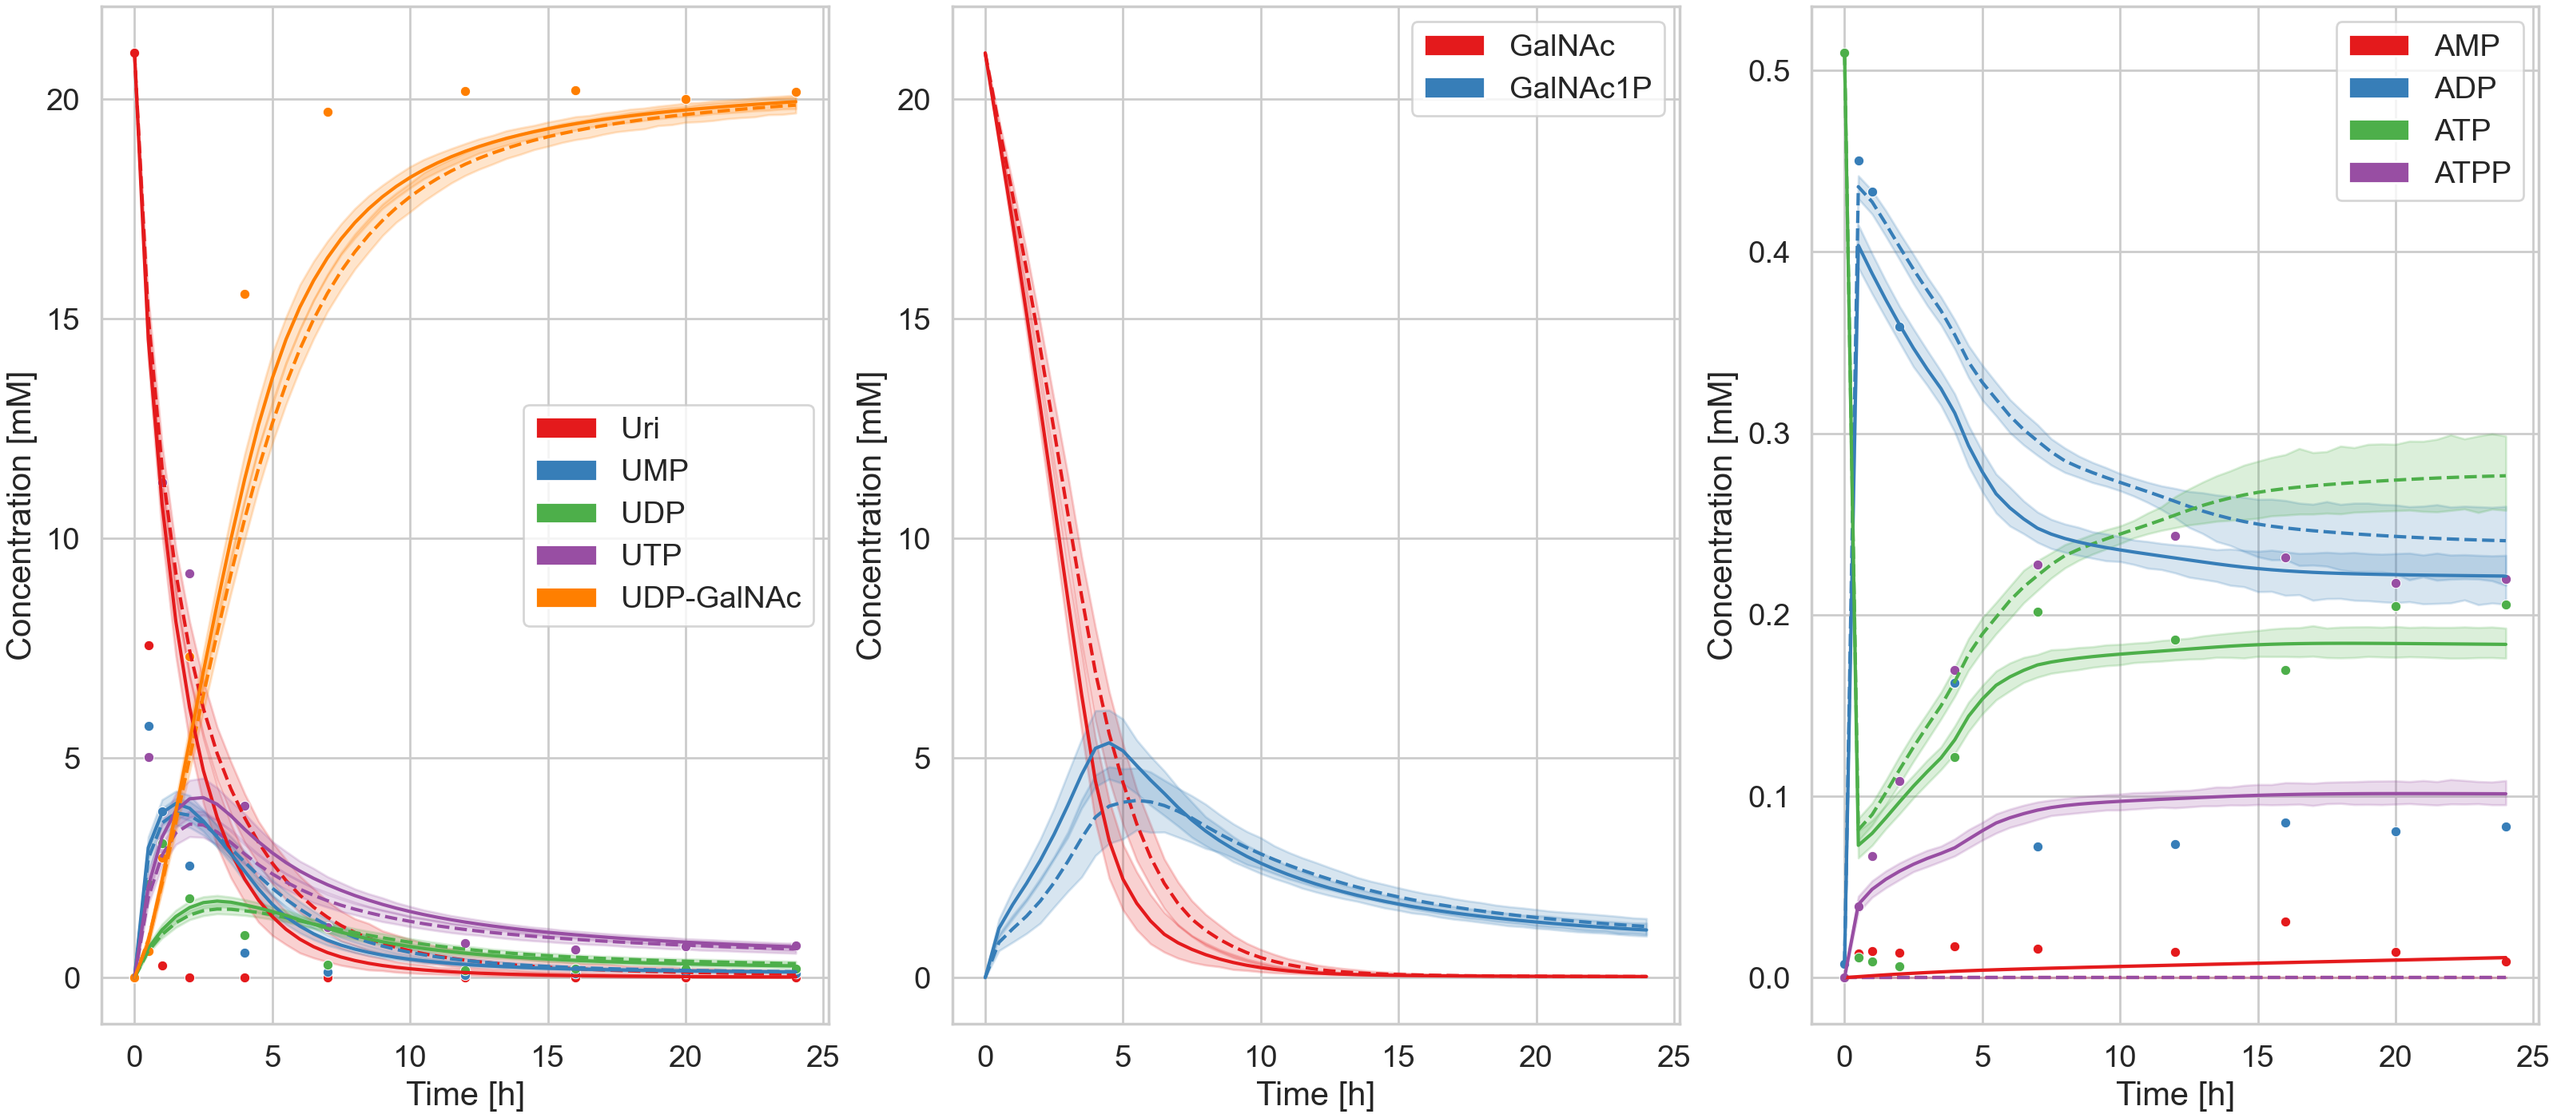
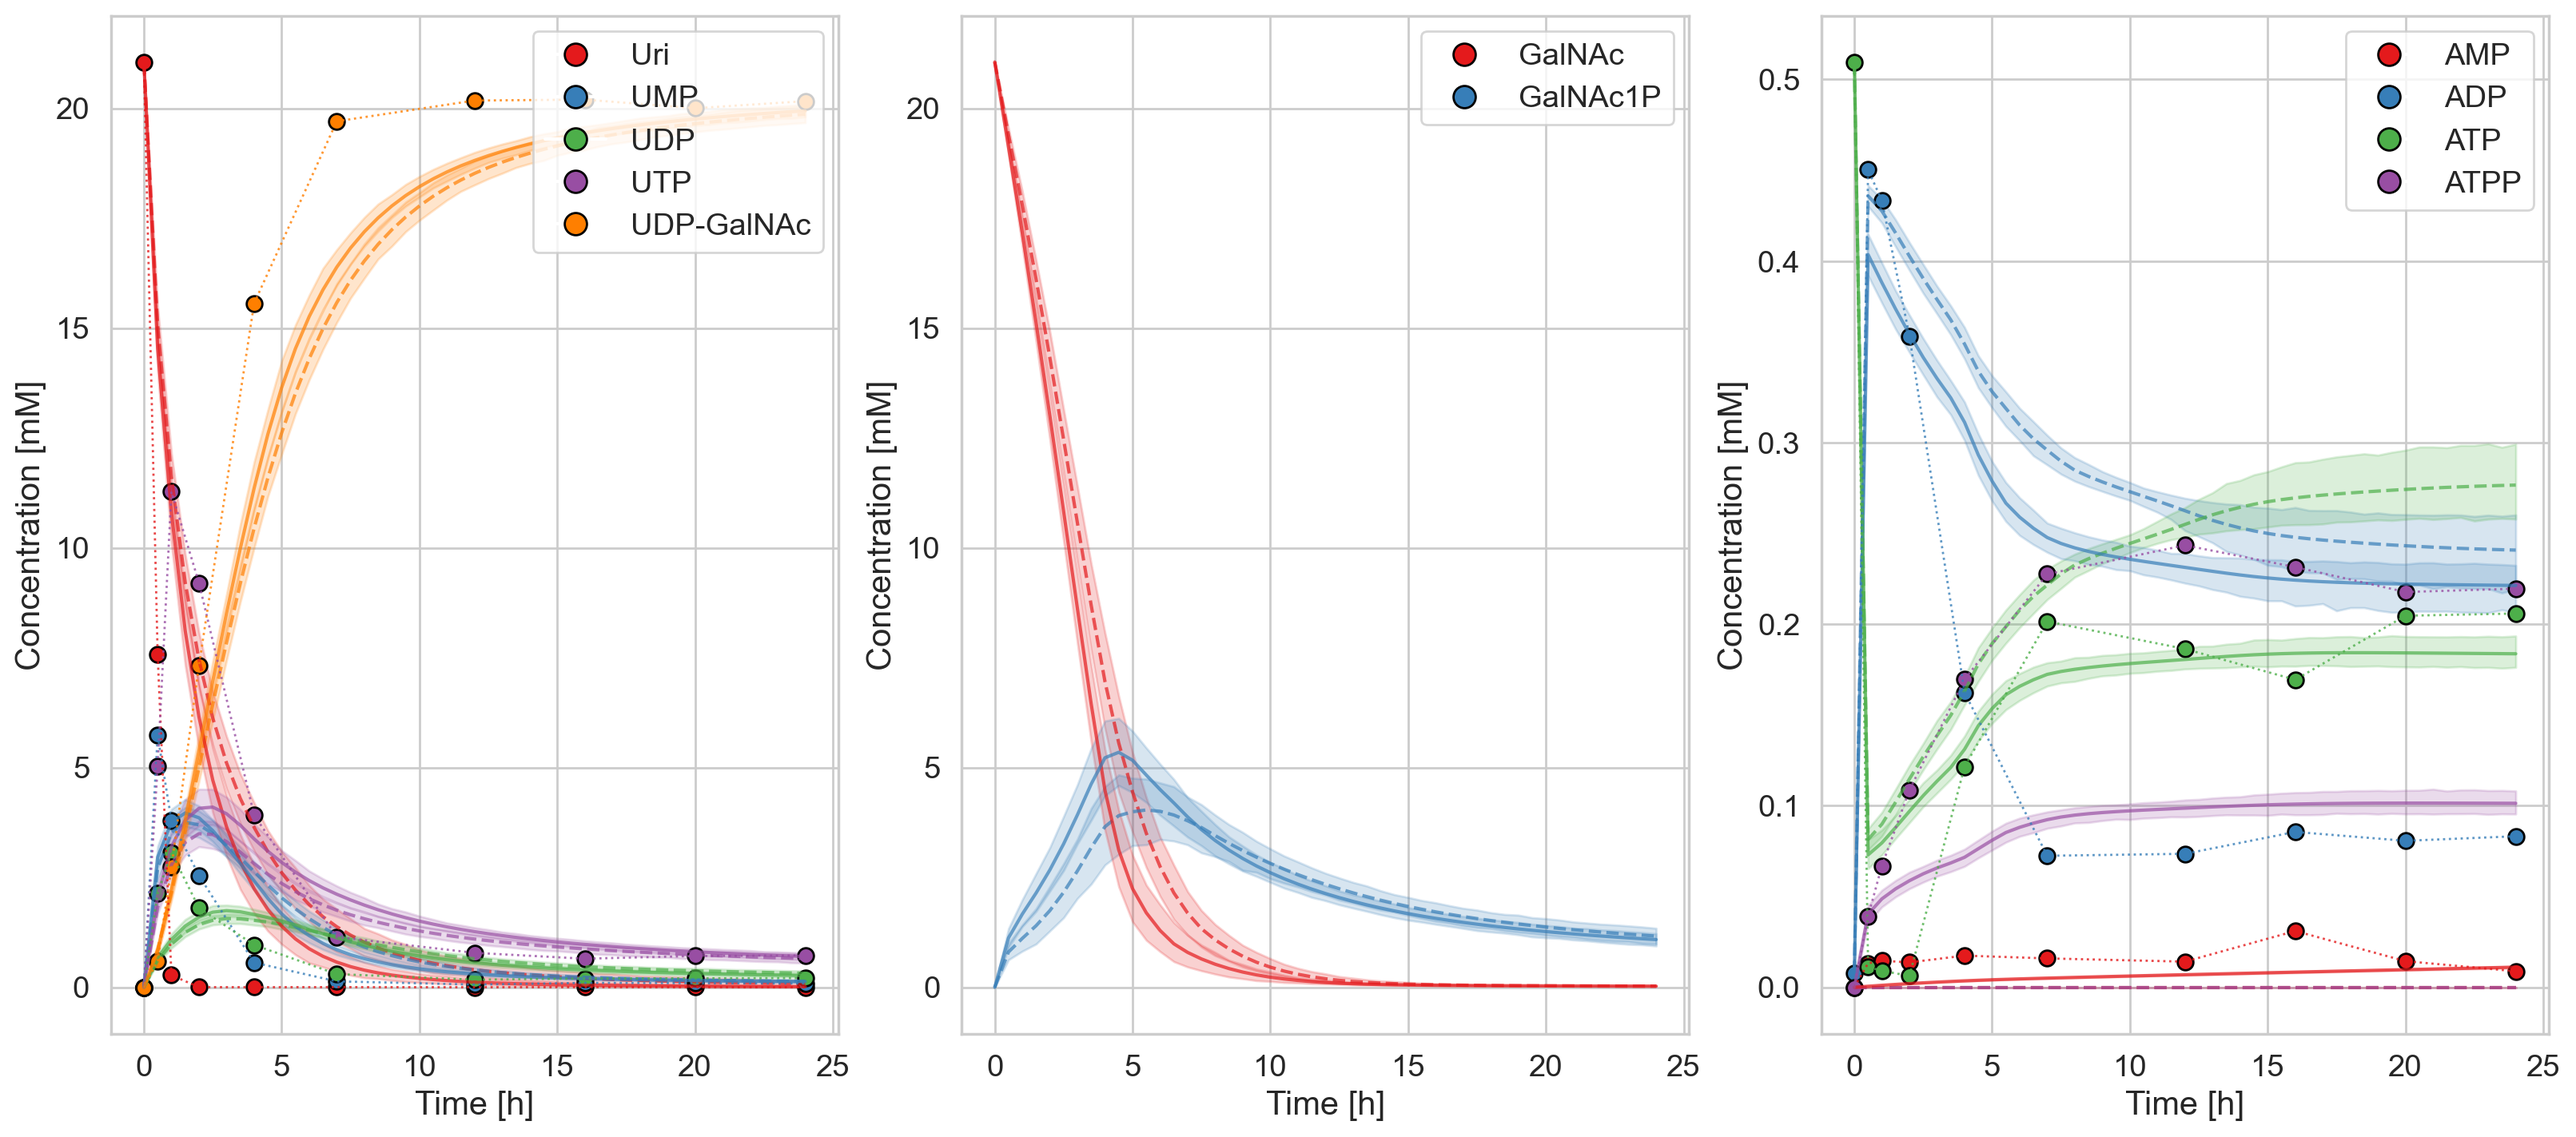
Update visualization of model fit comparison plots

diff --git a/morsel/func_lib.py b/morsel/func_lib.py
@@ -1972,48 +1972,80 @@ def compare_struct_var_tcs_merged(var1, var2, exp_data_dataframes, exp_ID, exp_n
                                                                       axis=0, ignore_index=True)
     # -###########################################################################
     # MULTIPLOT
-    # create seaborn line plots from simulated result data frame (separate plots for uridine-based, GalNAc and GalNAc1p, and adenosine-based species) for variant 1 (multi plot row index 0, line style solid) and variant 2 (multi plot row index 0, line style dashed); for the simulation results: plot the mean and 95% confidence interval by aggregating over PE replicates (at each time point)
-    fig, axs = plt.subplots(1, 3, figsize=(16,7), layout='constrained')
-    scatterplot_marker_size = 20
-    # define the species groups for each subplot
-    species_groups = [['Uri', 'UMP', 'UDP', 'UTP', 'UDP_GalNAc'],
-                      ['GalNAc', 'GalNAc1P'],
-                      ['AMP', 'ADP', 'ATP', 'ATPP']]
-    # define the colors for each species group
+    fig, axs = plt.subplots(1, 3, figsize=(16, 7), layout='constrained')
+    # define color palettes for the different subplots
     colors = [[sns.color_palette("Set1")[0], sns.color_palette("Set1")[1], sns.color_palette("Set1")[2], sns.color_palette("Set1")[3], sns.color_palette("Set1")[4]],
               [sns.color_palette("Set1")[0], sns.color_palette("Set1")[1]],
               [sns.color_palette("Set1")[0], sns.color_palette("Set1")[1], sns.color_palette("Set1")[2], sns.color_palette("Set1")[3]]]
+    # define species groups for each subplot
+    species_groups = [['Uri', 'UMP', 'UDP', 'UTP', 'UDP_GalNAc'],
+                      ['GalNAc', 'GalNAc1P'],
+                      ['AMP', 'ADP', 'ATP', 'ATPP']]
     # plot the data
     for i, ax in enumerate(axs):
         # plot variant 1 (dashed lines)
         sns.lineplot(data=var1_TC_results_list_merged_longform[var1_TC_results_list_merged_longform.Species.isin(species_groups[i])],
-                     x="Time", y="Concentration", hue="Species", ax=ax, palette=colors[i], linestyle='dashed', legend=False)
+                     x="Time",
+                     y="Concentration",
+                     hue="Species",
+                     ax=ax,
+                     palette=colors[i],
+                     linestyle='dashed',
+                     legend=False,
+                     alpha=0.7)
         # plot variant 2 (solid lines)
         sns.lineplot(data=var2_TC_results_list_merged_longform[var2_TC_results_list_merged_longform.Species.isin(species_groups[i])],
-                     x="Time", y="Concentration", hue="Species", ax=ax, palette=colors[i], linestyle='solid', legend=False)
-        # plot experimental data (scatter points)
+                     x="Time",
+                     y="Concentration",
+                     hue="Species",
+                     ax=ax,
+                     palette=colors[i],
+                     linestyle='solid',
+                     legend=False,
+                     alpha=0.7)
+        # plot experimental data (points)
         for j, species in enumerate(species_groups[i]):
-            # check if experimental data is available for this species
             if f'[{species}]' in exp_data_dataframes[exp_ID].columns:
-                sns.scatterplot(data=exp_data_dataframes[exp_ID], x='Time', y=f'[{species}]', ax=ax,
-                                color=colors[i][j], s=scatterplot_marker_size, label=f'{species}')
-        # create custom legend
-        legend_elements = list()
+                # scatter plot for the points themselves
+                sns.scatterplot(data=exp_data_dataframes[exp_ID],
+                                x='Time',
+                                y=f'[{species}]',
+                                ax=ax,
+                                color=colors[i][j],
+                                s=50,  # Smaller size
+                                marker='o',  # Uniform marker
+                                edgecolor='black',  # Black outline
+                                linewidth=1,
+                                label=f'{species.replace("_", "-")}')
+                # dotted lines to connect the points (to make it easier to see the evolution over time)
+                sns.lineplot(data=exp_data_dataframes[exp_ID],
+                             x='Time',
+                             y=f'[{species}]',
+                             ax=ax,
+                             color=colors[i][j],
+                             linestyle='dotted',
+                             alpha=0.8,
+                             linewidth=1,
+                             legend=False)  # no legend for the connecting lines       
+        # create custom legends
+        legend_elements = []
         for j, species in enumerate(species_groups[i]):
-            # replace underscores with dashes if they show up in the species name 
-            if '_' in species:
-                species = species.replace('_', '-')
-            legend_elements.append(Patch(facecolor=colors[i][j], label=species))
-        ax.legend(handles=legend_elements, frameon=True)
-    # overwrite axis labels which were automatically generated from data frame column names
-    axs[0].set(xlabel='Time [h]', ylabel='Concentration [mM]')
-    axs[1].set(xlabel='Time [h]', ylabel='Concentration [mM]')
-    axs[2].set(xlabel='Time [h]', ylabel='Concentration [mM]')
-    # save the plot and the associated time course simulation data 
-    plt.savefig(f'{plot_name}_Data{exp_name}_Comparison_merged.png', dpi=200)
+            species_name = species.replace('_', '-')
+            legend_elements.append(plt.Line2D([0], [0],
+                                              marker='o',
+                                              color='w',
+                                              markerfacecolor=colors[i][j],
+                                              markeredgecolor='black',
+                                              markersize=10,
+                                              label=f'{species_name}'))
+        ax.legend(handles=legend_elements, frameon=True, loc='upper right')
+        # set subplot titles and axis labels
+        ax.set_xlabel('Time [h]')
+        ax.set_ylabel('Concentration [mM]')
+    # save the plot
+    plt.savefig(f'{plot_name}_Data{exp_name}_Comparison_merged.png', dpi=200, bbox_inches='tight')
     list_of_TC_results = [var1_TC_results_merged_df, var2_TC_results_merged_df]
-    storage_file = open(f'{plot_name}_Data{exp_name}_TC_results_merged.pkl', 'wb')
-    pickle.dump(list_of_TC_results, storage_file)
-    storage_file.close()
+    with open(f'{plot_name}_Data{exp_name}_TC_results_merged.pkl', 'wb') as storage_file:
+        pickle.dump(list_of_TC_results, storage_file)
 
 
